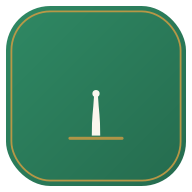
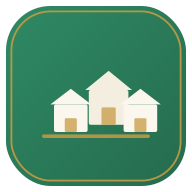
Cambiar icono a casitas (consorcio) y renombrar a Consorcio Las Palmas

Changed region(s): [[0.2188, 0.375, 0.8438, 0.75]]

diff --git a/index.html b/index.html
@@ -3,15 +3,15 @@
 <head>
 <meta charset="UTF-8">
 <meta name="viewport" content="width=device-width,initial-scale=1,maximum-scale=1">
-<title>Las Palmas</title>
[1 lines of base64/hex data omitted]
+<title>Consorcio Las Palmas</title>
[1 lines of base64/hex data omitted]
 <link rel="manifest" href="./manifest.json">
 <link rel="apple-touch-icon" href="./icon-192.png">
 <meta name="theme-color" content="#256B4E">
 <meta name="mobile-web-app-capable" content="yes">
 <meta name="apple-mobile-web-app-capable" content="yes">
 <meta name="apple-mobile-web-app-status-bar-style" content="black-translucent">
-<meta name="apple-mobile-web-app-title" content="Las Palmas"><style>
+<meta name="apple-mobile-web-app-title" content="Consorcio Las Palmas"><style>
 *{box-sizing:border-box;margin:0;padding:0}
 body{font-family:-apple-system,BlinkMacSystemFont,sans-serif;background:#f0f2f5;color:#222;font-size:14px}
 .hdr{background:linear-gradient(#2F8964,#256B4E);border-bottom:3px solid #C79A44;color:#fff;padding:10px 14px;position:sticky;top:0;z-index:100;display:flex;justify-content:space-between;align-items:center}
@@ -152,7 +152,7 @@ select.mes{font-size:11px;padding:4px 8px;border-radius:8px;border:none;backgrou
 <div id="verificar-screen" style="display:none;position:fixed;top:0;left:0;width:100%;min-height:100%;background:#f0f2f5;z-index:2000;padding:24px 16px;box-sizing:border-box">
   <div class="card" style="max-width:420px;margin:0 auto">
     <div style="text-align:center;margin-bottom:12px">
[2 lines of base64/hex data omitted]
       <div style="font-weight:700;color:#256B4E">Barrio Las Palmas</div>
       <div style="font-size:11px;color:#888">Verificación de recibo</div>
     </div>
@@ -161,7 +161,7 @@ select.mes{font-size:11px;padding:4px 8px;border-radius:8px;border:none;backgrou
 </div>
 
 <div class="hdr">
[2 lines of base64/hex data omitted]
   <div class="hdr-r">
     <span style="display:inline-flex;align-items:center;gap:4px"><svg width="16" height="16" viewBox="0 0 24 24" style="vertical-align:middle;flex-shrink:0"><circle cx="12" cy="12" r="12" fill="#C79A44"/><circle cx="12" cy="9.5" r="4" fill="#FBF7EE"/><path d="M4 21c0-4.4 3.6-7.5 8-7.5s8 3.1 8 7.5" fill="#FBF7EE"/></svg><span id="hdr-user" style="font-size:10px;opacity:.8"></span></span>
     <select class="mes" id="sel-mes" onchange="cambiarMes(this.value)">